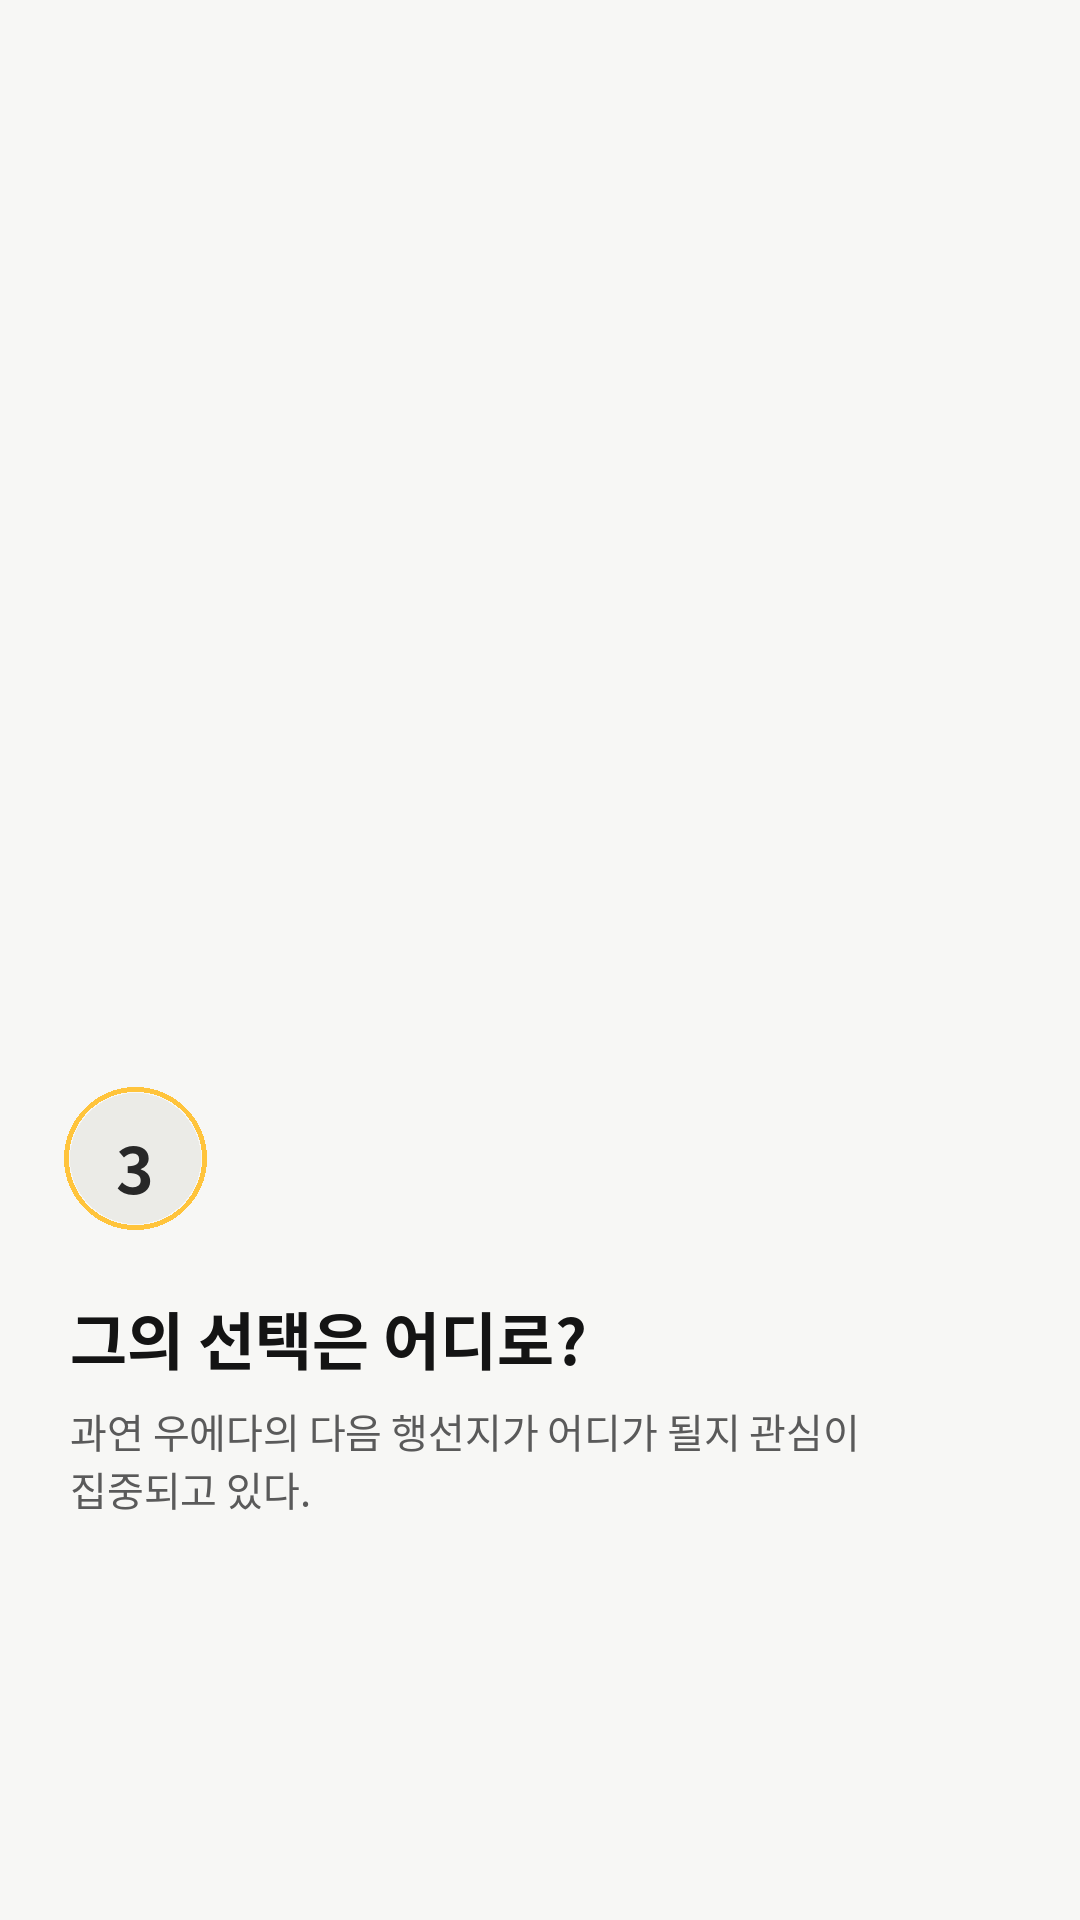
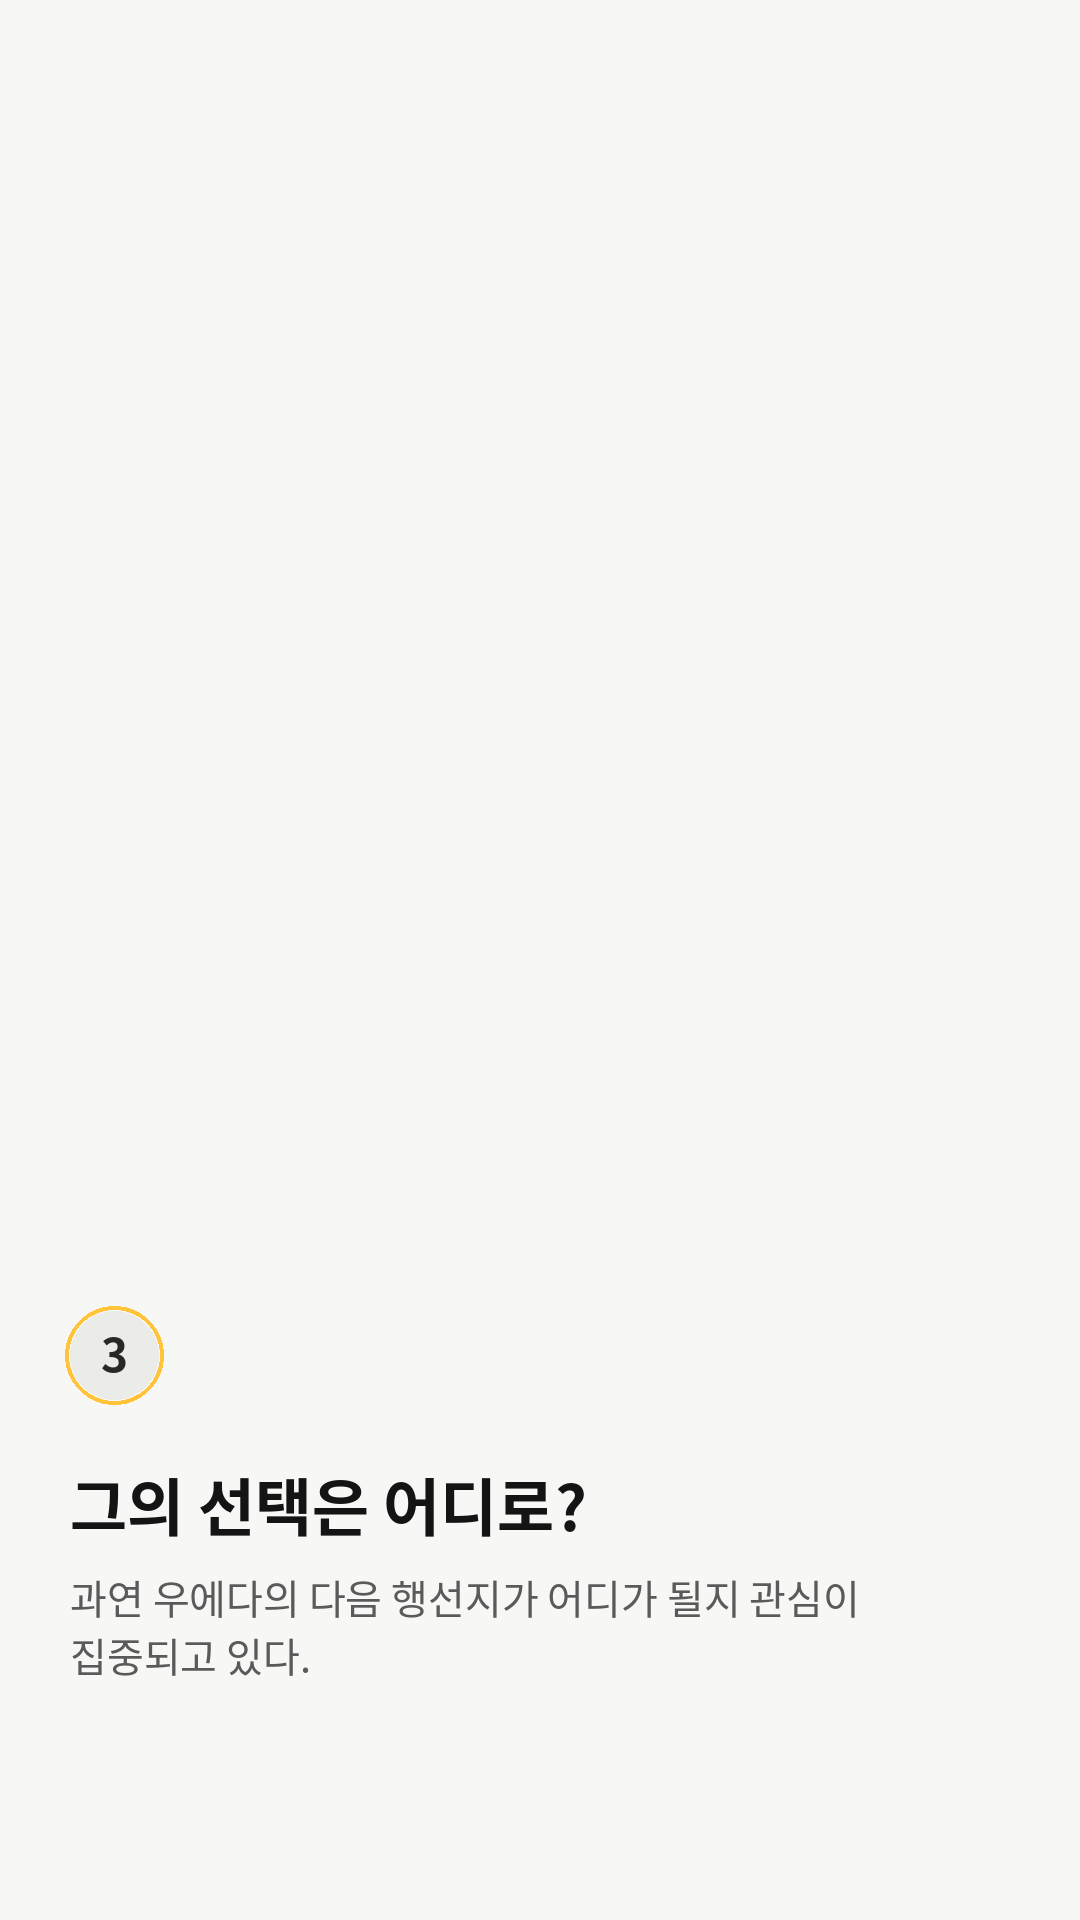
style: 팩트 카드 배지 축소 + 숫자 정중앙 정렬 + 텍스트 하단 배치 강화
textbbox로 숫자 글리프의 실제 경계를 구해서 배지 중심에 정확히 맞춤
(기존엔 줄높이 상수로 어림잡아 살짝 아래로 치우쳐 있었음).

Claude-Session: https://claude.ai/code/session_01PDkrwXsvev2hwTxjQzk9qH

diff --git a/news-reels-bot/scripts/make_carousel.py b/news-reels-bot/scripts/make_carousel.py
@@ -186,7 +186,7 @@ def make_fact_card(number: str, title: str, body: str, out_path: str):
     img = Image.new("RGB", (W, H), (247, 247, 245))
     draw = ImageDraw.Draw(img)
 
-    badge_d = 130
+    badge_d = 88
     title_font = font(FONT_BOLD, 62)
     body_font = font(FONT_REGULAR, 40)
     max_w = W - 140
@@ -195,17 +195,20 @@ def make_fact_card(number: str, title: str, body: str, out_path: str):
     title_line_h, body_line_h = 78, 58
 
     # 배지 + 제목 + 본문을 한 블록으로 보고, 화면 하단 쪽에 오도록 배치
-    block_h = badge_d + 70 + len(title_lines) * title_line_h + 30 + len(body_lines) * body_line_h
-    by = min(int(H * 0.68 - block_h / 2), H - block_h - 120)
+    block_h = badge_d + 60 + len(title_lines) * title_line_h + 30 + len(body_lines) * body_line_h
+    by = min(int(H * 0.78 - block_h / 2), H - block_h - 100)
     bx = 70
 
-    draw.ellipse([bx - 6, by - 6, bx + badge_d + 6, by + badge_d + 6], outline=ACCENT, width=5)
+    draw.ellipse([bx - 5, by - 5, bx + badge_d + 5, by + badge_d + 5], outline=ACCENT, width=4)
     draw.ellipse([bx, by, bx + badge_d, by + badge_d], fill=(235, 235, 231))
-    num_font = font(FONT_BOLD, 64)
-    tw = draw.textlength(number, font=num_font)
-    draw.text((bx + (badge_d - tw) / 2, by + (badge_d - 78) / 2), number, font=num_font, fill=(40, 40, 40))
+    num_font = font(FONT_BOLD, 46)
+    # textbbox로 실제 글리프 경계를 구해서 배지 중심에 정확히 맞춘다
+    l, t, r, b = draw.textbbox((0, 0), number, font=num_font)
+    num_x = bx + (badge_d - (r - l)) / 2 - l
+    num_y = by + (badge_d - (b - t)) / 2 - t
+    draw.text((num_x, num_y), number, font=num_font, fill=(40, 40, 40))
 
-    ty = by + badge_d + 70
+    ty = by + badge_d + 60
     for line in title_lines:
         draw.text((70, ty), line, font=title_font, fill=(20, 20, 20))
         ty += title_line_h
